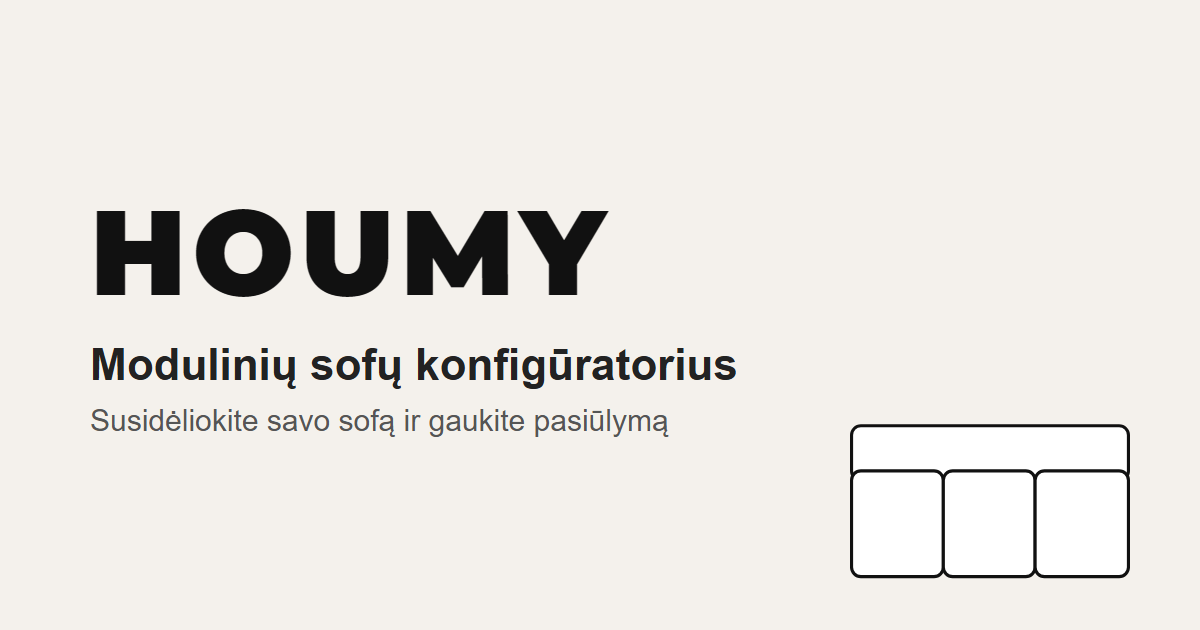
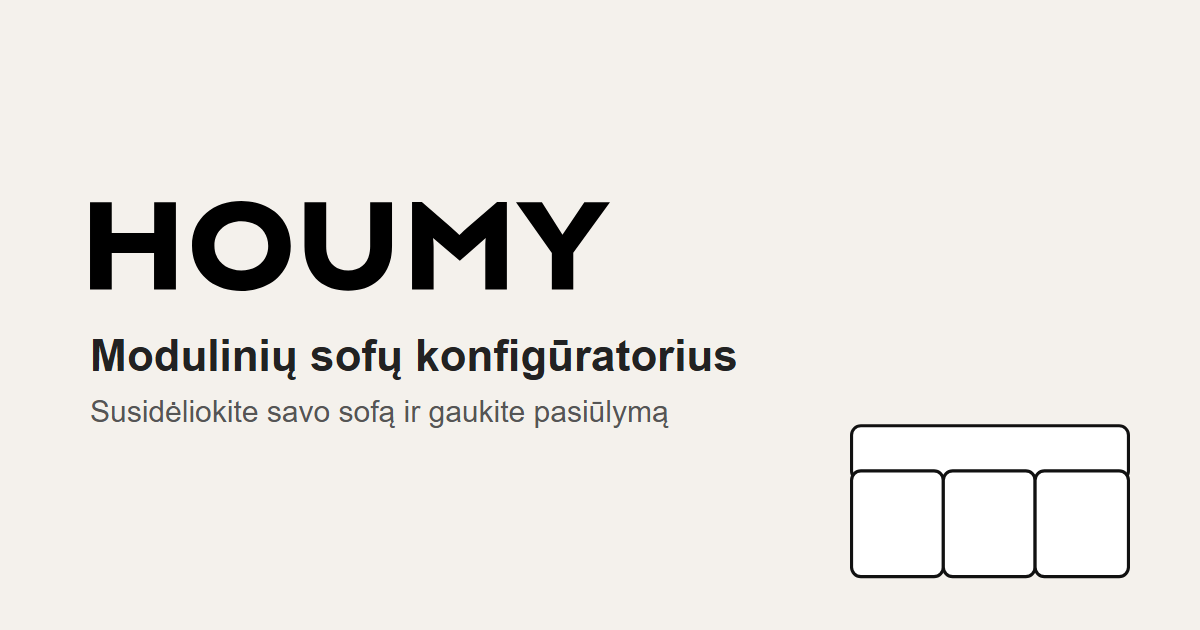
Tikras HOUMY logotipas vietoj teksto
- img/houmy-logo.svg (iš firminio failo, vektorinis); naudojamas pasiūlymo
  peržiūroje, krovimo ir „nerasta" ekrane, PDF šablone, privatumo puslapyje
- nuorodos paveikslėlis, ikonėlė (logotipo „H") ir PNG logotipas kliento laiškui
- Montserrat paliktas tik PDF antraštei ir vandens ženklui (Gotham artimas)

Changed region(s): [[0.0617, 0.3016, 0.5242, 0.4825], [0.0617, 0.5429, 0.6167, 0.6937]]

diff --git a/styles.css b/styles.css
@@ -1,4 +1,4 @@
-/* Montserrat 900 (logotipas, PDF antraštės) laikomas savo serveryje, ne Google Fonts —
+/* Montserrat 900 (PDF antraštės; laisvas, HOUMY firminiam Gotham artimas šriftas) — savo serveryje, ne Google Fonts —
  lankytojo IP nesiunčiamas į Google (BDAR). Licencija: fonts/Montserrat-OFL.txt */
 @font-face { font-family: 'Montserrat'; font-style: normal; font-weight: 900; font-display: swap; src: url('fonts/montserrat-900-latin-ext.woff2') format('woff2'); unicode-range: U+0100-02BA, U+02BD-02C5, U+02C7-02CC, U+02CE-02D7, U+02DD-02FF, U+0304, U+0308, U+0329, U+1D00-1DBF, U+1E00-1E9F, U+1EF2-1EFF, U+2020, U+20A0-20AB, U+20AD-20C0, U+2113, U+2C60-2C7F, U+A720-A7FF; }
 @font-face { font-family: 'Montserrat'; font-style: normal; font-weight: 900; font-display: swap; src: url('fonts/montserrat-900-latin.woff2') format('woff2'); unicode-range: U+0000-00FF, U+0131, U+0152-0153, U+02BB-02BC, U+02C6, U+02DA, U+02DC, U+0304, U+0308, U+0329, U+2000-206F, U+20AC, U+2122, U+2191, U+2193, U+2212, U+2215, U+FEFF, U+FFFD; }
@@ -75,7 +75,8 @@ select { width: 100%; padding: 8px; margin-bottom: 12px; font-size: 13px; border
 #pdf-template { position: absolute; top: -9999px; left: -9999px; width: 794px; height: 1123px; background: white; padding: 25px; box-sizing: border-box; color: #333; display: flex; flex-direction: column; z-index: -10; font-family: Arial, sans-serif; }
 .pdf-header { display: flex; justify-content: space-between; align-items: flex-start; border-bottom: 2px solid #111; padding-bottom: 8px; margin-bottom: 10px; flex-shrink: 0; }
 .pdf-company-info { display: flex; flex-direction: column; }
-.pdf-logo { font-size: 34px; color: #000; font-family: 'Montserrat', Arial, sans-serif; font-weight: 900; margin-bottom: 2px; line-height: 1; letter-spacing: 1px; }
+.pdf-logo { margin-bottom: 6px; line-height: 0; }
+.pdf-logo img { height: 24px; width: auto; display: block; } /* tikras HOUMY logotipas (img/houmy-logo.svg) */
 .pdf-details { font-size: 9px; line-height: 1.3; color: #444; }
 .pdf-client-info { margin-top: 8px; font-size: 10px; line-height: 1.4; color: #111; }
 .pdf-title { text-align: right; }

diff --git a/firebase-init.js b/firebase-init.js
@@ -352,7 +352,7 @@ function rodytiPasiulymoPranesima(tekstas) {
     const ov = document.getElementById("houmy-proposal-loading");
     if (ov) {
         ov.innerHTML = '<div style="max-width:420px; text-align:center; padding:24px;">' +
-            '<div style="font-family:\'Montserrat\',sans-serif; font-weight:900; font-size:34px; color:#111; letter-spacing:1px;">HOUMY</div>' +
+            '<img src="img/houmy-logo.svg" alt="HOUMY" style="height:30px; width:auto; display:block; margin:0 auto;">' +
             '<p style="margin-top:16px; font-size:16px; color:#444;">' + saugusTekstas(tekstas) + '</p>' +
             '<p style="margin-top:8px; font-size:13px; color:#999;">Susisiekite su mumis: +370 675 04607 · info@houmy.lt</p>' +
             '</div>';
@@ -451,7 +451,7 @@ function atvaizduotiKlientoPasiulyma(p) {
     const sidebar = document.getElementById("sidebar-right");
     if (sidebar) {
         sidebar.innerHTML =
-            '<div style="font-family:\'Montserrat\',sans-serif; font-weight:900; font-size:26px; color:#111; letter-spacing:1px;">HOUMY</div>' +
+            '<img src="img/houmy-logo.svg" alt="HOUMY" style="height:22px; width:auto; display:block; align-self:flex-start; margin:2px 0 6px 0;">' +
             '<div style="font-size:13px; color:#007bff; font-weight:bold; margin:2px 0 12px 0;">' + (komercinis ? 'KOMERCINIS PASIŪLYMAS' : 'SUDĖLIOTAS VARIANTAS') + '</div>' +
             (klientoInfo ? '<div style="font-size:13px; color:#333; line-height:1.5; margin-bottom:10px;">' + klientoInfo + '</div>' : "") +
             (audinys ? '<div style="font-size:13px; color:#333; line-height:1.5; margin-bottom:10px; border-top:1px solid #eee; padding-top:8px;">' + audinys + '</div>' : "") +

diff --git a/functions/index.js b/functions/index.js
@@ -208,6 +208,7 @@ exports.uzklausoslaiskas = onValueCreated(
                         "HOUMY komanda · MB „Praktiški baldai\"\n+370 675 04607 · info@houmy.lt\n\n" +
                         "Šį laišką gavote, nes HOUMY konfigūratoriuje paprašėte atsiųsti savo varianto nuorodą.",
                     html: `<div lang="lt" style="font-family:Arial,sans-serif; font-size:15px; color:#222; line-height:1.6; max-width:560px;">` +
+                        `<p style="margin:0 0 18px 0;"><img src="${PERZIUROS_BAZE}img/houmy-logo-email.png" alt="HOUMY" width="160" height="33" style="display:block; border:0;"></p>` +
                         `<p>Sveiki,</p><p>Dėkojame už užklausą. Jūsų sudėliotą HOUMY sofos variantą galite peržiūrėti čia:</p>` +
                         `<p><a href="${saugu(perziura)}" style="display:inline-block; padding:12px 20px; background:#111; color:#fff; text-decoration:none; border-radius:6px;">Peržiūrėti mano variantą</a></p>` +
                         `<p>Netrukus susisieksime dėl pasiūlymo.</p>` +

diff --git a/index.html b/index.html
@@ -88,7 +88,7 @@
 
     <div id="houmy-proposal-loading">
         <div style="text-align:center;">
-            <div style="font-family:'Montserrat',sans-serif; font-weight:900; font-size:34px; color:#111; letter-spacing:1px;">HOUMY</div>
+            <img src="img/houmy-logo.svg" alt="HOUMY" style="height:30px; width:auto; display:block; margin:0 auto;">
             <p style="margin-top:14px; font-size:15px;">Kraunamas pasiūlymas…</p>
         </div>
     </div>
@@ -304,7 +304,7 @@
     <div id="pdf-template">
         <div class="pdf-header">
             <div class="pdf-company-info">
-                <div class="pdf-logo">HOUMY</div>
+                <div class="pdf-logo"><img src="img/houmy-logo.svg" alt="HOUMY"></div>
                 <div class="pdf-details">
                     <b>MB Praktiški baldai</b><br>
                     Savanorių pr. 290, Kaunas.<br>

diff --git a/klientams.html b/klientams.html
@@ -341,7 +341,7 @@
     <div id="pdf-template">
         <div class="pdf-header">
             <div class="pdf-company-info">
-                <div class="pdf-logo">HOUMY</div>
+                <div class="pdf-logo"><img src="img/houmy-logo.svg" alt="HOUMY"></div>
                 <div class="pdf-details">
                     <b>MB Praktiški baldai</b><br>
                     Savanorių pr. 290, Kaunas.<br>

diff --git a/privatumas.html b/privatumas.html
@@ -20,6 +20,7 @@
 </head>
 <body>
 <main>
+    <img src="img/houmy-logo.svg" alt="HOUMY" style="height:24px; width:auto; display:block; margin:0 0 18px 0;">
     <h1>Kaip tvarkome jūsų duomenis</h1>
     <p class="pastaba">HOUMY modulinių sofų konfigūratorius · atnaujinta 2026-10-01</p>
 
